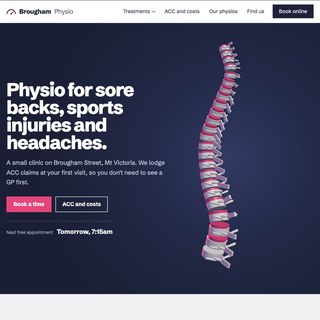
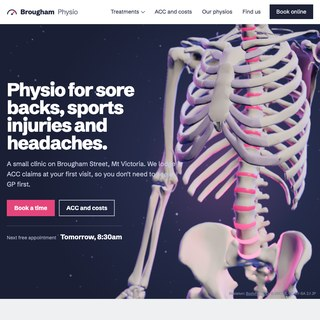
Physio hero: depth of field, held still (cursor lean and scroll turn only); new thumbnail across the site

diff --git a/examples/wellington-physio/spine.js b/examples/wellington-physio/spine.js
@@ -1,10 +1,13 @@
 /* Brougham Physio (concept): the home page skeleton. A real anatomical model
-   (BodyParts3D) in navy haze; the camera starts on the ribs and drifts round to
-   the lower back, and a pulse of tape pink runs down the spine, lighting each disc
-   as it passes. Leans toward the mouse; scrolling turns it part way round. A single
+   (BodyParts3D) in navy haze, framed on the ribs and held still; a pulse of tape
+   pink runs down the spine, lighting each disc
+   as it passes. Depth of field keeps the nearest bones sharp and lets the far side
+   soften. Leans toward the mouse; scrolling turns it part way round. A single
    still frame for reduced motion; the hero works without it if loading fails. */
 import * as THREE from "./vendor/three.module.min.js";
 import { GLTFLoader, MeshoptDecoder } from "./vendor/gltf.min.js";
+/* three's post-processing, bundled; the bokeh shader is patched to keep alpha so the CSS backdrop shows */
+import { EffectComposer, RenderPass, BokehPass, OutputPass } from "./vendor/post.min.js";
 
 const hero = document.querySelector(".hero3d");
 const canvas = document.getElementById("spine");
@@ -19,6 +22,14 @@ renderer.toneMappingExposure = 1.05;
 const scene = new THREE.Scene();
 scene.fog = new THREE.FogExp2(NAVY, 0.019);
 const camera = new THREE.PerspectiveCamera(28, 1, 0.1, 200);
+
+/* the composer draws off screen, which loses the browser's edge smoothing; a multisampled
+   target puts it back so edges don't crawl as the camera moves */
+const composer = new EffectComposer(renderer, new THREE.WebGLRenderTarget(1, 1, { type: THREE.HalfFloatType, samples: 4 }));
+composer.addPass(new RenderPass(scene, camera));
+const bokeh = new BokehPass(scene, camera, { focus: 11, aperture: 0.0035, maxblur: 0.006 });
+composer.addPass(bokeh);
+composer.addPass(new OutputPass());
 
 scene.add(new THREE.HemisphereLight(0x9aa6ff, 0x141829, 0.55));
 /* the lights travel with the camera, so the look holds from every angle:
@@ -87,13 +98,16 @@ scene.add(dust);
 
 /* camera rig: from the whole body, front three-quarter, round to the lower back */
 const rig = { target: new THREE.Vector3(), dist: 1, az: 0, el: 0 };
-let ribs = new THREE.Vector3(), close = new THREE.Vector3();
+let ribs = new THREE.Vector3();
 let spinScroll = 0;
 const vertebrae = [], discs = [];
 
 function size() {
   const w = hero.clientWidth, h = hero.clientHeight;
   renderer.setSize(w, h, false);
+  /* the blur hides fine detail, so the post-processed frame can run a little under full Retina */
+  composer.setPixelRatio(Math.min(1.25, window.devicePixelRatio || 1));
+  composer.setSize(w, h);
   camera.aspect = w / h;
   /* on wide screens the skeleton stands to the right of the words */
   if (w > 900) camera.setViewOffset(w, h, -w * 0.25, 0, w, h);
@@ -115,9 +129,7 @@ hero.addEventListener("pointerleave", () => { tx = ty = 0; });
 let visible = true;
 new IntersectionObserver((es) => { visible = es[0].isIntersecting; }).observe(hero);
 
-const ease = (x) => (x < 0.5 ? 4 * x * x * x : 1 - Math.pow(-2 * x + 2, 3) / 2);
 const clamp01 = (x) => Math.min(1, Math.max(0, x));
-const lerp = THREE.MathUtils.lerp;
 const pink = new THREE.Color(TAPE), dark = new THREE.Color(0x000000);
 const tmp = new THREE.Vector3();
 let start = 0;
@@ -133,14 +145,12 @@ function frame(now) {
     /* scrolling through the hero turns the skeleton about a quarter, eased so it glides */
     spinScroll += (clamp01(window.scrollY / (hero.clientHeight * 0.75)) - spinScroll) * 0.08;
 
-    /* the drift: from the ribs, front on, round to the lower back over about eight seconds */
-    const d = ease(clamp01((t - 0.6) / 8));
-    const sway = still ? 0 : Math.sin(t * 0.16) * 0.28 * d;
-    rig.target.lerpVectors(ribs, close, d);
+    /* it holds still on the ribs: only the cursor leans it, and scrolling turns it */
+    rig.target.copy(ribs);
     rig.target.y -= scroll * 0.6;
-    rig.dist = lerp(11, 12, d) * fit * (1 - scroll * 0.2) * (1 + Math.sin(t * 0.3) * 0.015 * d);
-    rig.az = lerp(0.45, Math.PI + 0.7, d) + sway + spinScroll * Math.PI * 0.55 + mx * 0.3;
-    rig.el = lerp(0.1, 0.16, d) + my * 0.05;
+    rig.dist = 11 * fit * (1 - scroll * 0.15);
+    rig.az = 0.45 + spinScroll * Math.PI * 0.55 + mx * 0.18;
+    rig.el = 0.1 + my * 0.04;
 
     camera.position.set(
       rig.target.x + Math.sin(rig.az) * Math.cos(rig.el) * rig.dist,
@@ -172,7 +182,7 @@ function frame(now) {
     });
     if (lw > 0.05) {
       pulseLight.position.set(lx / lw, ly / lw, lz / lw - 0.7);
-      pulseLight.intensity = Math.min(1, lw) * 9 * (0.35 + 0.65 * d);
+      pulseLight.intensity = Math.min(1, lw) * 9;
     } else pulseLight.intensity = 0;
 
     /* dust rises slowly and wraps */
@@ -186,7 +196,9 @@ function frame(now) {
       dustGeo.attributes.position.needsUpdate = true;
     }
 
-    renderer.render(scene, camera);
+    /* focus sits just in front of the spine, on the bones nearest the camera */
+    bokeh.uniforms.focus.value = rig.dist - 0.8;
+    composer.render();
   }
   if (!still) requestAnimationFrame(frame);
 }
@@ -216,14 +228,10 @@ loader.load("model/skeleton.glb", (gltf) => {
   });
   scene.add(gltf.scene);
 
-  /* framing: the lower ribs (T8 to L2), then the lumbar spine (L1 to L5), close enough
-     that the head stays out of shot */
+  /* framing: the lower ribs (T8 to L2), close enough that the head stays out of shot */
   ribs = new THREE.Vector3();
   for (let i = 14; i < 21; i++) ribs.add(vertebrae[i].center);
   ribs.divideScalar(7).add(tmp.set(0, 0, 0.6));
-  close = new THREE.Vector3();
-  for (let i = 19; i < 24; i++) close.add(vertebrae[i].center);
-  close.divideScalar(5).add(tmp.set(0, 0.6, 0));
 
   hero.classList.add("has-3d");
   requestAnimationFrame(frame);

diff --git a/index.html b/index.html
@@ -125,7 +125,7 @@
   </div>
   <ul class="work-track" tabindex="0" aria-label="Websites I've designed. Scroll sideways to see more.">
       <li><a href="examples/wellington-cafe/" target="_blank" rel="noopener"><img src="img/examples/wellington-cafe-sq.jpg?v=3" alt="Low Tide Kitchen concept: a riso-printed poster site for a surf café, with a live open or shut sticker" width="320" height="320" loading="lazy"><b>Beach café</b><span>Lyall Bay</span></a></li>
-      <li><a href="examples/wellington-physio/" target="_blank" rel="noopener"><img src="img/examples/wellington-physio-sq.jpg?v=4" alt="Physio clinic site with seven linked pages, ACC check and online booking" width="320" height="320" loading="lazy"><b>Physio clinic</b><span>Wellington</span></a></li>
+      <li><a href="examples/wellington-physio/" target="_blank" rel="noopener"><img src="img/examples/wellington-physio-sq.jpg?v=5" alt="Physio clinic site with seven linked pages, ACC check and online booking" width="320" height="320" loading="lazy"><b>Physio clinic</b><span>Wellington</span></a></li>
       <li><a href="examples/mount-yoga/" target="_blank" rel="noopener"><img src="img/examples/mount-yoga-sq.jpg?v=1" alt="Yoga studio site with a weekly timetable and class booking" width="320" height="320" loading="lazy"><b>Yoga studio</b><span>Mount Maunganui</span></a></li>
       <li><a href="examples/queenstown-tours/" target="_blank" rel="noopener"><img src="img/examples/queenstown-tours-sq.jpg?v=6" alt="Kayak tour company with online booking" width="320" height="320" loading="lazy"><b>Kayak tours</b><span>Queenstown</span></a></li>
       <li><a href="examples/christchurch-electrician/" target="_blank" rel="noopener"><img src="img/examples/christchurch-electrician-sq.jpg?v=3" alt="Electrician with a price guide and estimate builder" width="320" height="320" loading="lazy"><b>Electrician</b><span>Christchurch</span></a></li>

diff --git a/squarespace-website-design.html b/squarespace-website-design.html
@@ -111,7 +111,7 @@
   </div>
   <ul class="work-track" tabindex="0" aria-label="Websites I've designed. Scroll sideways to see more.">
       <li><a href="examples/wellington-cafe/" target="_blank" rel="noopener"><img src="img/examples/wellington-cafe-sq.jpg?v=3" alt="Low Tide Kitchen concept: a riso-printed poster site for a surf café, with a live open or shut sticker" width="320" height="320" loading="lazy"><b>Beach café</b><span>Lyall Bay</span></a></li>
-      <li><a href="examples/wellington-physio/" target="_blank" rel="noopener"><img src="img/examples/wellington-physio-sq.jpg?v=4" alt="Physio clinic site with seven linked pages, ACC check and online booking" width="320" height="320" loading="lazy"><b>Physio clinic</b><span>Wellington</span></a></li>
+      <li><a href="examples/wellington-physio/" target="_blank" rel="noopener"><img src="img/examples/wellington-physio-sq.jpg?v=5" alt="Physio clinic site with seven linked pages, ACC check and online booking" width="320" height="320" loading="lazy"><b>Physio clinic</b><span>Wellington</span></a></li>
       <li><a href="examples/mount-yoga/" target="_blank" rel="noopener"><img src="img/examples/mount-yoga-sq.jpg?v=1" alt="Yoga studio site with a weekly timetable and class booking" width="320" height="320" loading="lazy"><b>Yoga studio</b><span>Mount Maunganui</span></a></li>
       <li><a href="examples/queenstown-tours/" target="_blank" rel="noopener"><img src="img/examples/queenstown-tours-sq.jpg?v=6" alt="Kayak tour company with online booking" width="320" height="320" loading="lazy"><b>Kayak tours</b><span>Queenstown</span></a></li>
       <li><a href="examples/christchurch-electrician/" target="_blank" rel="noopener"><img src="img/examples/christchurch-electrician-sq.jpg?v=3" alt="Electrician with a price guide and estimate builder" width="320" height="320" loading="lazy"><b>Electrician</b><span>Christchurch</span></a></li>

diff --git a/squarespace-website-cost.html b/squarespace-website-cost.html
@@ -116,7 +116,7 @@
         <span class="amt">$2,400</span>
       </div>
       <div class="row ex-row">
-        <a class="ex" href="examples/wellington-physio/" target="_blank" rel="noopener" aria-label="Example: Brougham Physio, a seven-page clinic site"><img src="img/examples/wellington-physio-sq.jpg?v=4" alt="" width="56" height="56" loading="lazy"><span>Example</span></a>
+        <a class="ex" href="examples/wellington-physio/" target="_blank" rel="noopener" aria-label="Example: Brougham Physio, a seven-page clinic site"><img src="img/examples/wellington-physio-sq.jpg?v=5" alt="" width="56" height="56" loading="lazy"><span>Example</span></a>
         <span class="n">Small business site</span>
         <p>Around five to seven pages: services, about, contact, and the pages that earn
           you search traffic.</p>

diff --git a/examples/wellington-physio/index.html b/examples/wellington-physio/index.html
@@ -37,7 +37,7 @@
   </div>
   <p class="credit">Skeleton: <a href="https://dbarchive.biosciencedbc.jp/en/bodyparts3d/lic.html" rel="noopener">BodyParts3D</a>, &copy; DBCLS, CC BY-SA 2.1 JP</p>
 </div>
-<script type="module" src="spine.js?v=6"></script>
+<script type="module" src="spine.js?v=10"></script>
 
 <section aria-labelledby="treat-h" style="padding-top:clamp(20px,3vw,40px)">
   <div class="wrap">
